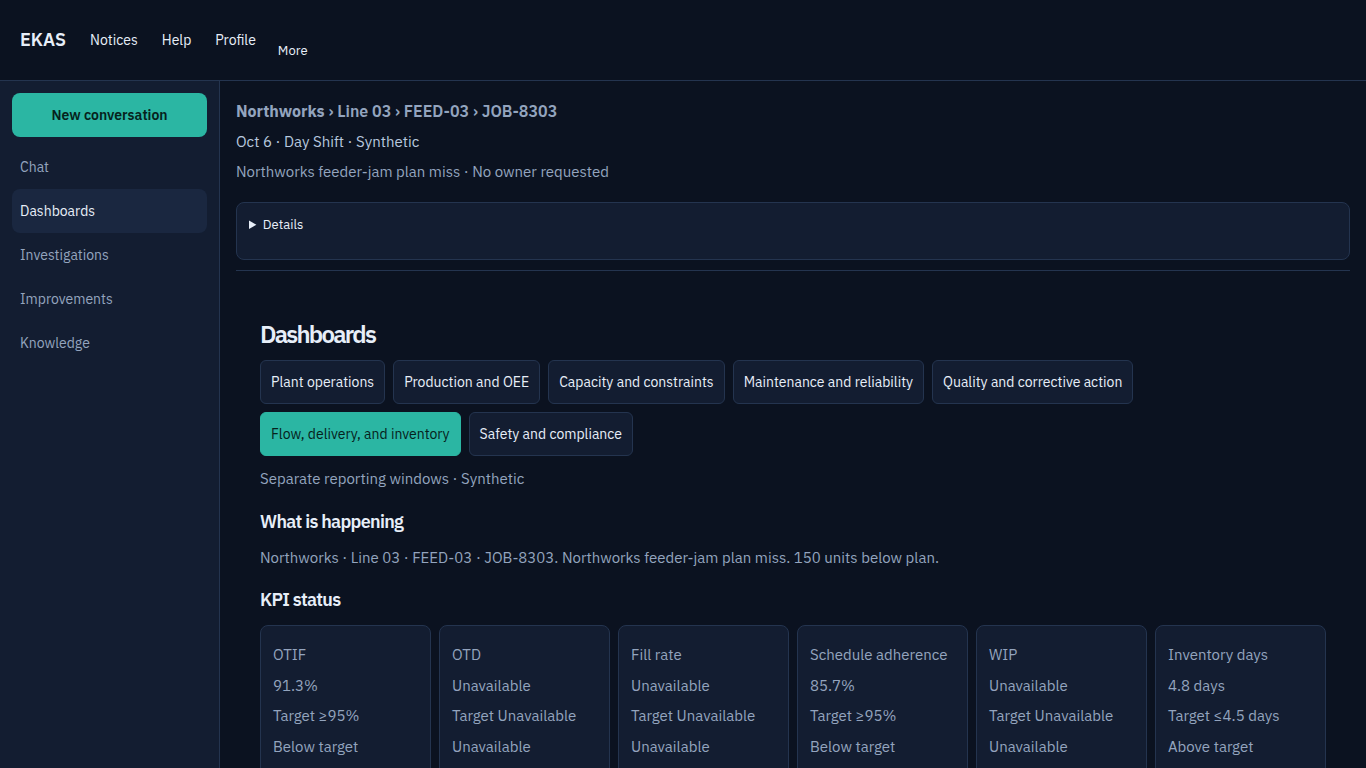
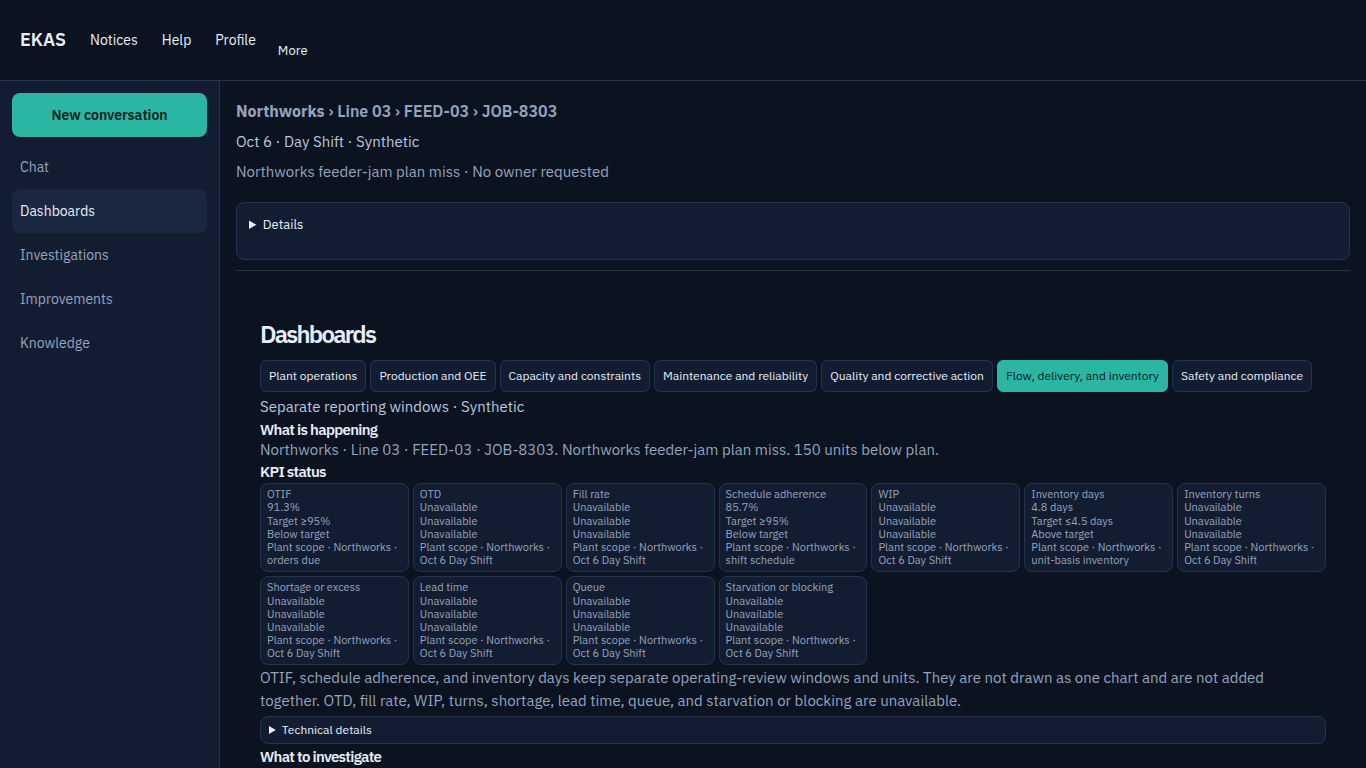
Recapture the WP5A cleanup at 1366, 390, and 320.
Keep the plan chart and its note in the first desktop viewport, hold the tooltip inside the frame, and show the loss table with the three actions in a separate shot.

diff --git a/app/src/investigation/canonical-workspace.css b/app/src/investigation/canonical-workspace.css
@@ -91,25 +91,25 @@ html{scroll-padding-bottom:calc(var(--ekas-composer-h, 168px) + 20px)}
  .ekas-embedded.ekas-composer-inline .ekas-composer,.ekas-composer-inline .ekas-composer{margin-top:0;padding:4px 8px}
 }
 .ekas-dash{min-width:0;max-width:100%}
-.ekas-dash h2{margin:8px 0 2px;font-size:16px;line-height:1.25}
-.ekas-dash p{margin:2px 0}
+.ekas-dash h2{margin:2px 0 0;font-size:15px;line-height:1.2}
+.ekas-plant .ekas-dash p{margin:0}
 .ekas-plant .ekas-dash label.ekas-dash-family-select{display:none}
-.ekas-dash-tabs{display:flex;flex-wrap:wrap;gap:6px;margin:0 0 6px}
-.ekas-dash button.ekas-dash-family{background-color:#131d31;color:#e7eef8;border:1px solid #24344f;transition:none;min-height:36px;padding:4px 10px}
+.ekas-dash-tabs{display:flex;flex-wrap:wrap;gap:4px;margin:0 0 4px}
+.ekas-dash button.ekas-dash-family{background-color:#131d31;color:#e7eef8;border:1px solid #24344f;transition:none;min-height:32px;padding:2px 8px;font-size:12px}
 .ekas-dash button.ekas-dash-family:hover,.ekas-dash button.ekas-dash-family:focus{background-color:#1a2740;color:#e7eef8}
 .ekas-dash button.ekas-dash-family.ekas-dash-family-active,.ekas-dash button.ekas-dash-family.ekas-dash-family-active:hover,.ekas-dash button.ekas-dash-family.ekas-dash-family-active:focus,.ekas-dash button.ekas-dash-family.ekas-dash-family-active:focus-visible{background-color:#2bb6a3;color:#06221c;border-color:#2bb6a3}
 .ekas-dash-context,.ekas-dash-scope{margin:0 0 4px;color:#b7c8df}
-.ekas-dash-kpis{display:grid;grid-template-columns:repeat(4,minmax(0,1fr));gap:6px;list-style:none;margin:4px 0;padding:0}
-.ekas-dash-kpis li,.ekas-dash-cards li{border:1px solid #24344f;border-radius:8px;padding:6px 8px;background:#131d31}
-.ekas-dash-kpis p,.ekas-dash-cards p,.ekas-dash-ranks p,.ekas-dash-figure figcaption,.ekas-dash-scope{margin:0}
-.ekas-dash-kpis p{font-size:12px;line-height:1.25}
+.ekas-dash-kpis{display:grid;grid-template-columns:repeat(7,minmax(0,1fr));gap:4px;list-style:none;margin:2px 0;padding:0}
+.ekas-dash-kpis li,.ekas-dash-cards li{border:1px solid #24344f;border-radius:8px;padding:4px 6px;background:#131d31}
+.ekas-plant .ekas-dash-kpis p,.ekas-plant .ekas-dash-cards p,.ekas-plant .ekas-dash-ranks p,.ekas-plant .ekas-dash-figure figcaption,.ekas-plant .ekas-dash-scope{margin:0}
+.ekas-plant .ekas-dash-kpis p{font-size:11px;line-height:1.2}
 .ekas-dash-figure{margin:4px 0 8px;min-width:0;max-width:100%}
 .ekas-dash-chart{min-width:0;max-width:100%}
 .ekas-dash-figure figcaption{color:#b7c8df}
 .ekas-dash-table{width:100%;border-collapse:collapse;margin:8px 0}
 .ekas-dash-table th,.ekas-dash-table td{text-align:left;padding:4px 8px;border-bottom:1px solid #24344f;overflow-wrap:anywhere}
 .ekas-dash-cards{display:none;list-style:none;margin:8px 0;padding:0}
-.ekas-dash-ranks{list-style:none;margin:8px 0;padding:0;display:grid;gap:8px}
+.ekas-dash-ranks{list-style:none;margin:4px 0;padding:0;display:grid;grid-template-columns:repeat(3,minmax(0,1fr));gap:6px}
 .ekas-dash-ranks li{display:grid;gap:4px}
 .ekas-dash-ranks button[aria-pressed="true"]{background:#2bb6a3;color:#06221c;border-color:#2bb6a3}
 .ekas-dash details.ekas-dash-technical{margin:4px 0;padding:4px 8px}
@@ -121,7 +121,7 @@ html{scroll-padding-bottom:calc(var(--ekas-composer-h, 168px) + 20px)}
  .ekas-plant .ekas-dash label.ekas-dash-family-select{display:block;margin:0 0 8px}
  .ekas-dash-family-select select{width:100%;margin-top:4px}
  .ekas-dash-tabs{display:none}
- .ekas-dash-kpis{grid-template-columns:1fr}
+ .ekas-dash-kpis,.ekas-dash-ranks{grid-template-columns:1fr}
  .ekas-dash-table{display:none}
  .ekas-dash-cards{display:grid;gap:8px}
 }

diff --git a/e2e/dashboard-wp5.spec.ts b/e2e/dashboard-wp5.spec.ts
@@ -155,17 +155,25 @@ test('plant operations selects Line 03, explains the 150-unit gap, and opens the
   await expectTooltipInFrame(page);
   await expectNoOverflow(page);
   await shot(page, 'D-plan-tooltip');
-  await page.mouse.move(0, 0);
+  await page.mouse.move(40, 300);
+  await page.evaluate(() => {
+    document.querySelectorAll('.highcharts-tooltip-container').forEach(node => node.remove());
+  });
 
   const lossTable = dashboard.locator('[data-chart-id="line-contribution"] .ekas-dash-table');
   const ask = dashboard.getByRole('button', { name: 'Ask about this' });
   await page.locator('[aria-label="Workspace content"]').evaluate(el => {
     const actions = el.querySelector('.ekas-dash .ekas-answer-actions');
-    if (!actions) return;
-    const delta = actions.getBoundingClientRect().bottom - el.getBoundingClientRect().bottom + 12;
-    el.scrollTop += delta;
+    const table = el.querySelector('[data-chart-id="line-contribution"] .ekas-dash-table');
+    const sticky = document.querySelector('.ekas-context')?.getBoundingClientRect().bottom ?? 0;
+    if (!actions || !table) return;
+    el.scrollTop += actions.getBoundingClientRect().bottom - window.innerHeight + 8;
+    const covered = sticky + 4 - table.getBoundingClientRect().top;
+    if (covered > 0) el.scrollTop -= covered;
   });
-  await expectTopInView(lossTable, 768);
+  const stickyBottom = await page.locator('.ekas-context').evaluate(el => el.getBoundingClientRect().bottom);
+  const lossBox = await lossTable.boundingBox();
+  expect(lossBox && lossBox.y >= stickyBottom - 1 && lossBox.y + lossBox.height <= 768).toBeTruthy();
   await expectTopInView(ask, 768);
   await expectTopInView(dashboard.getByRole('button', { name: 'Investigate' }), 768);
   await expectTopInView(dashboard.getByRole('button', { name: 'Show evidence' }), 768);
@@ -279,7 +287,7 @@ async function expectStackedActions(page: Page, width: number) {
   await dashboard.locator('[data-chart-id="plan-versus-actual"]').scrollIntoViewIfNeeded();
   await expect(dashboard.locator('[data-chart-id="plan-versus-actual"] .highcharts-container')).toBeVisible();
   await dashboard.locator('[data-chart-id="plan-versus-actual"] .highcharts-point').first().hover({ force: true });
-  await expect(dashboard.locator('.highcharts-tooltip').last()).toBeVisible();
+  await expect(page.locator('.highcharts-tooltip').last()).toBeVisible();
   await expectNoOverflow(page);
   const ask = dashboard.getByRole('button', { name: 'Ask about this' });
   const investigate = dashboard.getByRole('button', { name: 'Investigate' });

diff --git a/app/src/investigation/DashboardChart.tsx b/app/src/investigation/DashboardChart.tsx
@@ -11,7 +11,7 @@ export function DashboardChart({ chart }: { chart: DashboardChartModel }) {
     const node = host.current;
     if (!node) return;
     const drawn = Highcharts.chart(node, {
-      chart: { type: 'column', backgroundColor: '#131d31', height: 188, animation: false, spacing: [6, 8, 4, 8], style: { fontFamily: 'IBM Plex Sans, sans-serif' } },
+      chart: { type: 'column', backgroundColor: '#131d31', height: 176, animation: false, spacing: [4, 6, 2, 6], style: { fontFamily: 'IBM Plex Sans, sans-serif' } },
       title: { text: chart.title, style: { color: '#e7eef8', fontSize: '14px' } },
       credits: { enabled: false },
       legend: { enabled: false },

diff --git a/app/src/investigation/PlantDashboard.tsx b/app/src/investigation/PlantDashboard.tsx
@@ -79,7 +79,7 @@ export function PlantDashboard({ view, verificationRecorded, focus, onSelect, on
       <h2>What is happening</h2>
       <p>{happening}</p>
       <h2>KPI status</h2>
-      {sharedKpiScope && <p className="ekas-dash-scope">{sharedKpiScope}</p>}
+      {sharedKpiScope && !contextLine.startsWith(sharedKpiScope) && <p className="ekas-dash-scope">{sharedKpiScope}</p>}
       <MeasureCards rows={family.kpis} showScope={!sharedKpiScope} />
       <ChartGroup charts={primary} />
       {loss.length > 0 && <>
